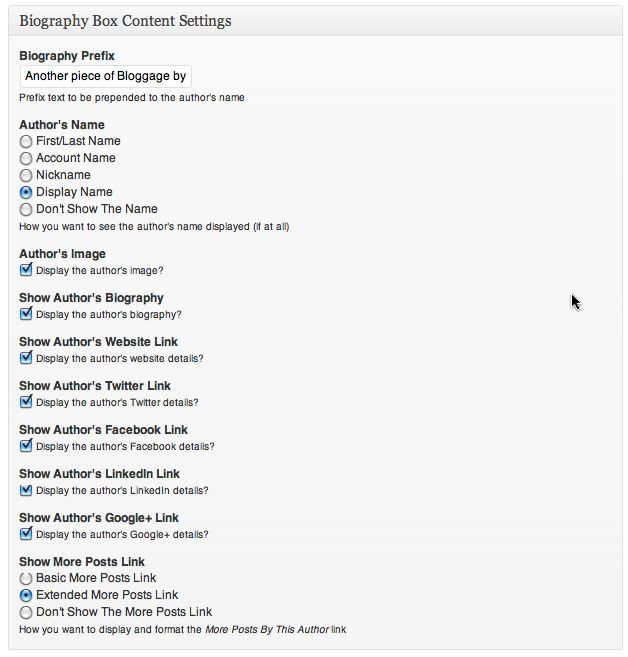
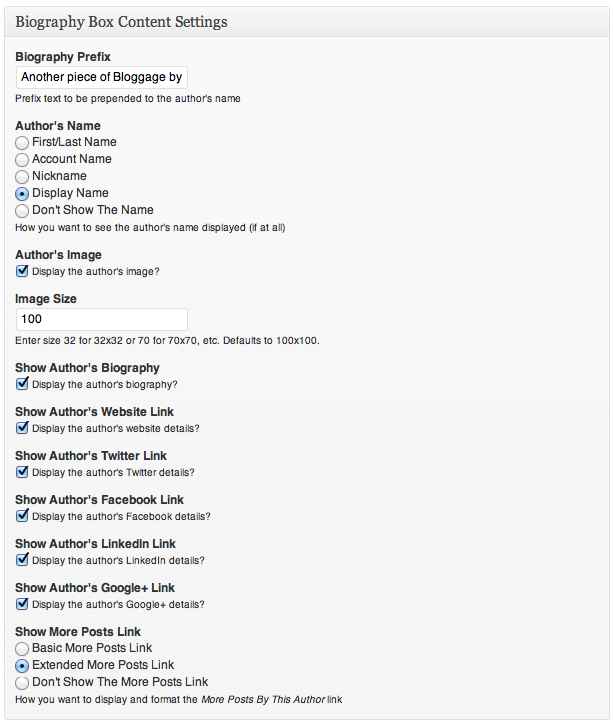
Refactored plugin file locations in line with WordPress recommendations. Upped version number to v2.0.0 to reflect major changes. Updated screenshots to show v2.0.0 settings.

Changed region(s): [[0.0, 0.0, 0.5579, 0.9741], [0.9918, 0.0, 1.0, 1.0], [0.8989, 0.4566, 0.9299, 0.4871]]

diff --git a/wp-biographia.php b/wp-biographia.php
@@ -1,9 +1,9 @@
 <?php
 /*
 Plugin Name: WP Biographia
-Plugin URI: http://www.garygale.com
+Plugin URI: http://www.vicchi.org/codeage/wp-biographia/
 Description: Add and display a customizable author biography for individual posts, in RSS feeds, on pages, in archives and on each entry on the landing page.
-Version: 1.1
+Version: 2.0
 Author: Gary Gale & Travis Smith
 Author URI: http://www.garygale.com/
 License: GPL2
@@ -12,7 +12,7 @@ License: GPL2
 define ('WPBIOGRAPHIAURL_URL', plugin_dir_url(__FILE__));
 define ('WPBIOGRAPHIAURL_PATH', plugin_dir_path(__FILE__));
 
-require_once (WPBIOGRAPHIAURL_PATH."/wp-biographia-admin.php");
+require_once (WPBIOGRAPHIAURL_PATH."includes/wp-biographia-admin.php");
 
 /*
  * Produce and format the Biography Box according to the currently defined options
@@ -369,7 +369,7 @@ function wp_biographia_insert($content) {
  */
 
 function wp_biographia_style() {
-	wp_enqueue_style ('wp-biographia-bio', WPBIOGRAPHIAURL_URL . 'wp-biographia.css');	
+	wp_enqueue_style ('wp-biographia-bio', WPBIOGRAPHIAURL_URL . 'css/wp-biographia.css');	
 }
 
 /*
